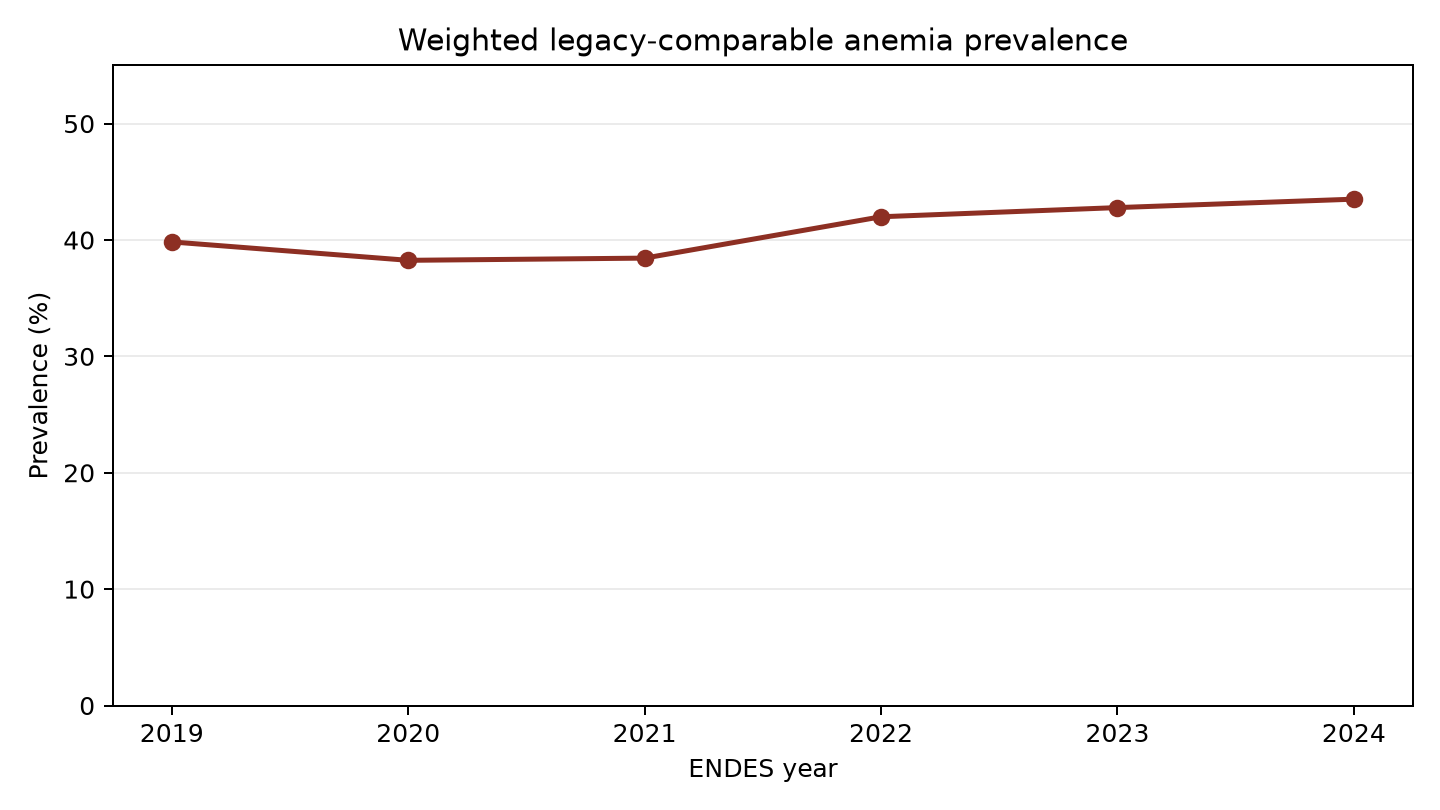
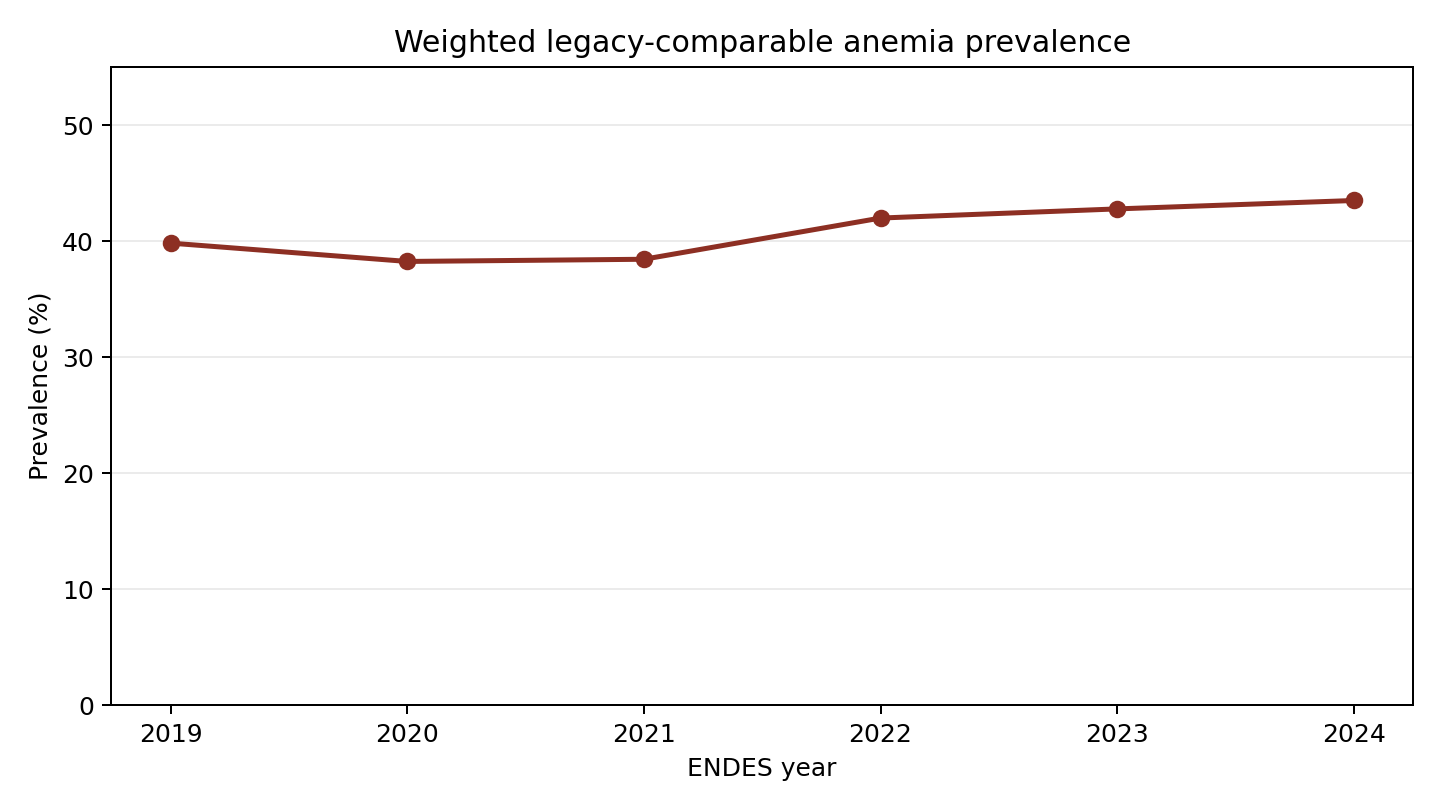
Validate pipeline dependencies and refresh experiment records

diff --git a/07_model_card/datasheet.md b/07_model_card/datasheet.md
@@ -6,7 +6,7 @@
 
 ## Collection and processing
 
-The source is the official INEI ENDES microdata catalogue. For each year, the pipeline reads the child haemoglobin module (`REC44`), birth history (`REC21`), and mother/household module (`REC0111`). The original archives are kept unchanged under DVC. They are joined temporarily using ENDES keys, then the keys are excluded. A project-generated `analysis_id` is not an ENDES identifier and is only a reproducibility label.
+The source is the official INEI ENDES microdata catalogue. For each year, the pipeline reads the child haemoglobin module (`REC44`), birth history (`REC21`), and mother/household module (`REC0111`). The original archives remain unchanged in local `data/raw/` and are excluded from Git. They are joined temporarily using ENDES keys, then the keys are excluded. A project-generated `analysis_id` is not an ENDES identifier and is only a reproducibility label.
 
 ## Variables and labels
 
@@ -22,7 +22,7 @@ Do not attempt to re-identify a child, link the file to external individual-leve
 
 ## Maintenance and distribution
 
-Data files are DVC-managed in an access-controlled Google Drive remote. Git retains code and metadata. Access should be granted only to authorised course collaborators, and any release outside that group must be checked against the INEI terms and the project data-management plan.
+The de-identified analytical CSV is represented by a DVC pointer and intended for retrieval from an access-controlled Google Drive remote. Git retains code, metadata, aggregate outputs, and the MLflow tracking records. Access should be granted only to authorised course collaborators, and any release outside that group must be checked against the INEI terms and the project data-management plan.
 
 ## Dataset composition
 
@@ -50,4 +50,4 @@ ENDES is a repeated household survey, not a clinical registry or a census. The d
 
 ## Sensitive use and distribution controls
 
-Although the analytical CSV excludes direct identifiers, it remains research data. Users must not attempt re-identification, join it to external person-level data, publish small cells, or use it to label a family, community, or department as inherently high risk. The raw archives, processed CSV, and MLflow store are versioned with DVC and are accessible only through the agreed project remote. Any broader sharing requires a new review of INEI conditions, disclosure risk, and the data-management plan.
+Although the analytical CSV excludes direct identifiers, it remains research data. Users must not attempt re-identification, join it to external person-level data, publish small cells, or use it to label a family, community, or department as inherently high risk. The original archives stay local, the processed CSV is represented by its DVC pointer, and the MLflow tracking records are committed in Git. Any broader sharing requires a new review of INEI conditions, disclosure risk, and the data-management plan.

diff --git a/10_data_mgmt/data_management_plan.md b/10_data_mgmt/data_management_plan.md
@@ -2,7 +2,7 @@
 
 ## Data lifecycle
 
-The project receives anonymous official ENDES module archives, creates a de-identified analysis file, and produces aggregate tables, figures, code, and MLflow tracking artifacts. The source archives and processed CSV are versioned with DVC; Git holds the code, metadata, checksums, and lock files. The source manifest is the authoritative record of origin and transformation.
+The project receives anonymous official ENDES module archives, creates a de-identified analysis file, and produces aggregate tables, figures, code, and MLflow tracking artifacts. The original archives remain local and are excluded from Git; the processed CSV is represented by a DVC pointer. Git holds code, metadata, checksums, aggregate outputs, and MLflow tracking records. The source manifest is the authoritative record of origin and transformation.
 
 ## Access and security
 
@@ -24,11 +24,11 @@ GitHub is the code and documentation history; DVC/Drive is the data-artifact sto
 
 | Asset | Location | Versioning method | Access level | Responsible action |
 |---|---|---|---|---|
-| Original ENDES archives | `data/raw/` | DVC pointer and remote cache | Restricted to authorised collaborators | Preserve unchanged; verify checksum. |
+| Original ENDES archives | `05_pipeline/data/raw/` | Local files excluded from Git | Restricted to authorised collaborators | Preserve unchanged; verify checksum. |
 | De-identified analytical CSV | `05_pipeline/data/` | DVC pointer and local cache | Restricted research use | Rebuild only through the documented script. |
 | Metadata and data contract | `05_pipeline/docs/` | Git | Repository collaborators | Review when a field or rule changes. |
 | Aggregate figures and tables | `05_pipeline/docs/` | Git | Repository readers | Regenerate after a documented code or data change. |
-| MLflow tracking store | `mlruns/` | DVC pointer | Restricted research use | Preserve run provenance and avoid manual edits. |
+| MLflow tracking store | `05_pipeline/mlruns/` | Git-tracked experiment metadata | Repository readers | Preserve run provenance and avoid manual edits. |
 
 ## FAIR implementation record
 

diff --git a/05_pipeline/docs/reproduction_checklist.md b/05_pipeline/docs/reproduction_checklist.md
@@ -3,12 +3,12 @@
 Use this checklist from a clean clone before presenting the repository as fully reproducible.
 
 - [ ] Clone the repository and switch to the intended commit or release tag.
-- [ ] Create a Python 3.11 environment and install the pinned root requirements.
+- [ ] Create a Python 3.11 environment and install `05_pipeline/requirements.txt`.
 - [ ] Configure the local-only Google Drive service-account settings described in `05_pipeline/README.md`.
-- [ ] Run `dvc pull` and confirm that `data/raw/` and the processed CSV are restored.
-- [ ] Run `dvc repro` and compare the regenerated descriptive and experiment outputs with the committed summaries.
+- [ ] Run `dvc pull` and confirm that `data/endes_anemia_children_2019_2024.csv` is restored and matches its DVC pointer. The original ENDES archives are obtained separately from INEI and remain local in `data/raw/`.
+- [ ] Run `python src/analyze_endes.py` and `python src/run_experiments.py`, then compare the regenerated descriptive and experiment outputs with the committed summaries.
 - [ ] Open MLflow with `mlflow ui --backend-store-uri .\\mlruns` and inspect the ten fixed-seed runs.
 - [ ] Build the image with `docker build -t endes-anemia-pipeline .` and repeat at least the descriptive command in the container.
 - [ ] Record the operating system, Python version, package versions, and any numerical differences found.
 
-At the time of the latest repository update, the local workflow and automated tests passed. The shared Drive transfer and Docker build are deliberately left unchecked until the repository owner configures a private Google service-account key and uses a Docker-enabled machine.
+At the time of the latest repository update, local execution checks passed. The shared Drive transfer and Docker build are deliberately left unchecked until the repository owner configures a private Google service-account key and uses a Docker-enabled machine.

diff --git a/05_pipeline/docs/environment.md b/05_pipeline/docs/environment.md
@@ -1,8 +1,8 @@
-# Recorded Execution Environment
+# Validated Execution Environment
 
 ## Reference software
 
-The pipeline was executed locally on 31 July 2026 using Python 3.11.15, pandas 2.2.2, scikit-learn 1.5.2, MLflow 2.19.0, and DVC 3.55.2. The exact pins are in the repository-level `requirements.txt`.
+The pipeline was validated in a clean local Python 3.11.15 environment on 1 August 2026 using pandas 2.2.2, scikit-learn 1.5.2, MLflow 2.19.0, and the dependencies pinned in `05_pipeline/requirements.txt`. The analysis, experiment, and fairness scripts are rerun when a published code or dependency change requires new output evidence.
 
 ## Workstation used for the recorded outputs
 
@@ -18,4 +18,4 @@ The GPU is listed for transparency only. It was not used to produce the document
 
 ## Expected variation
 
-Fixed seeds and pinned libraries make the workflow reproducible within the documented environment. Minor differences can still arise across operating systems or low-level numerical libraries, particularly for random forest. The repository therefore records the dataset SHA-256, Git commit, seed, parameters, and metrics for each MLflow run instead of treating one metric value as portable proof of model quality.
+Fixed seeds and pinned libraries make the workflow reproducible within the documented environment. Minor differences can still arise across operating systems or low-level numerical libraries, particularly for random forest. The repository therefore records the dataset SHA-256, Git commit, seed, parameters, and metrics for each MLflow run instead of treating one metric value as portable proof of model quality. A Google Drive `dvc pull` from a clean clone and a Docker run remain separate checks because they require local service-account credentials and a Docker-enabled machine.

diff --git a/09_ethics/ethics_protocol.md b/09_ethics/ethics_protocol.md
@@ -6,7 +6,7 @@ This project follows the Belmont principles of respect for persons, beneficence,
 
 ## Respect for persons and privacy
 
-The pipeline uses only the minimum fields needed for the stated analysis. ENDES case and household keys are used during the temporary join and removed from the processed CSV. Raw archives and generated files are stored through DVC in an access-controlled remote. The project will not attempt linkage to identifiable external data, publish small-cell tables that could increase disclosure risk, or share credentials.
+The pipeline uses only the minimum fields needed for the stated analysis. ENDES case and household keys are used during the temporary join and removed from the processed CSV. Original archives remain local in ignored storage, the processed CSV is represented by a DVC pointer, and generated code and output records are versioned in Git. The project will not attempt linkage to identifiable external data, publish small-cell tables that could increase disclosure risk, or share credentials.
 
 ## Beneficence and non-maleficence
 

diff --git a/12_integrity/ai_use_policy.md b/12_integrity/ai_use_policy.md
@@ -30,7 +30,7 @@ The author must read the final protocol, tables, code comments, and disclosure r
 
 ## Prompt-log location
 
-`ai_prompt_log/README.md` provides a blank record format for any assistance that requires disclosure. The repository intentionally does not contain fabricated retrospective entries. The author should add a dated record only when it accurately describes a real interaction and any required approval.
+The repository intentionally does not contain a retrospective prompt log or fabricated disclosure entries. If the course requires a detailed interaction record, the author should create it prospectively in the course-approved location and include only accurate dates, tools, and decisions.
 
 ## Decision table
 

diff --git a/07_model_card/model_card.md b/07_model_card/model_card.md
@@ -37,7 +37,7 @@ The model card is paired with `datasheet.md` and the ethics protocol. A similar 
 | Framework | scikit-learn 1.5.2 |
 | Training population | 57,539 eligible de-identified ENDES child records before the stratified split |
 | Outcome | Legacy binary anemia category derived from `HW57` |
-| Data version evidence | DVC lock state, source checksums, and dataset SHA-256 logged in MLflow |
+| Data version evidence | DVC pointer, source checksums, and dataset SHA-256 logged in MLflow |
 | Reproducibility evidence | Five fixed seeds, pinned dependencies, Git commit, and MLflow records |
 
 ## Reported internal performance
